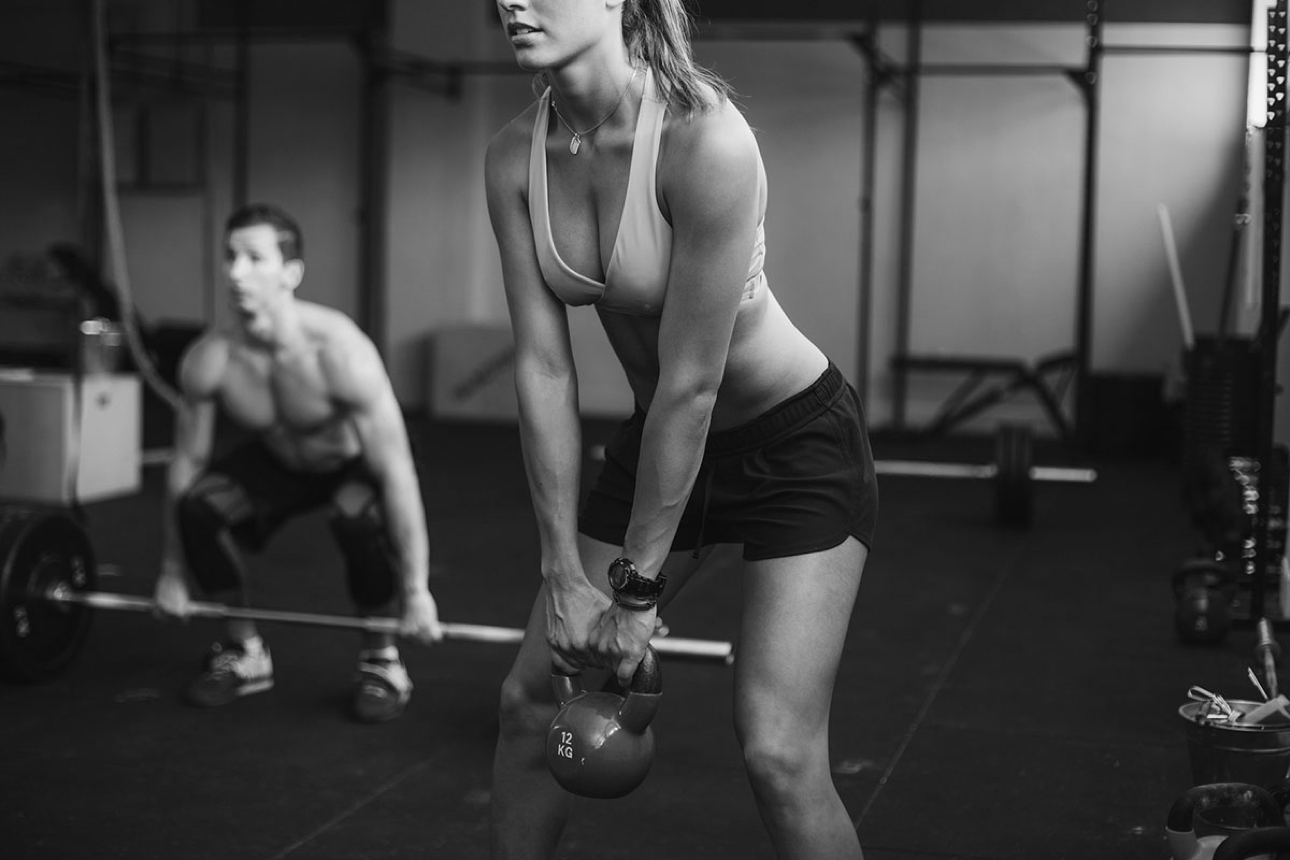
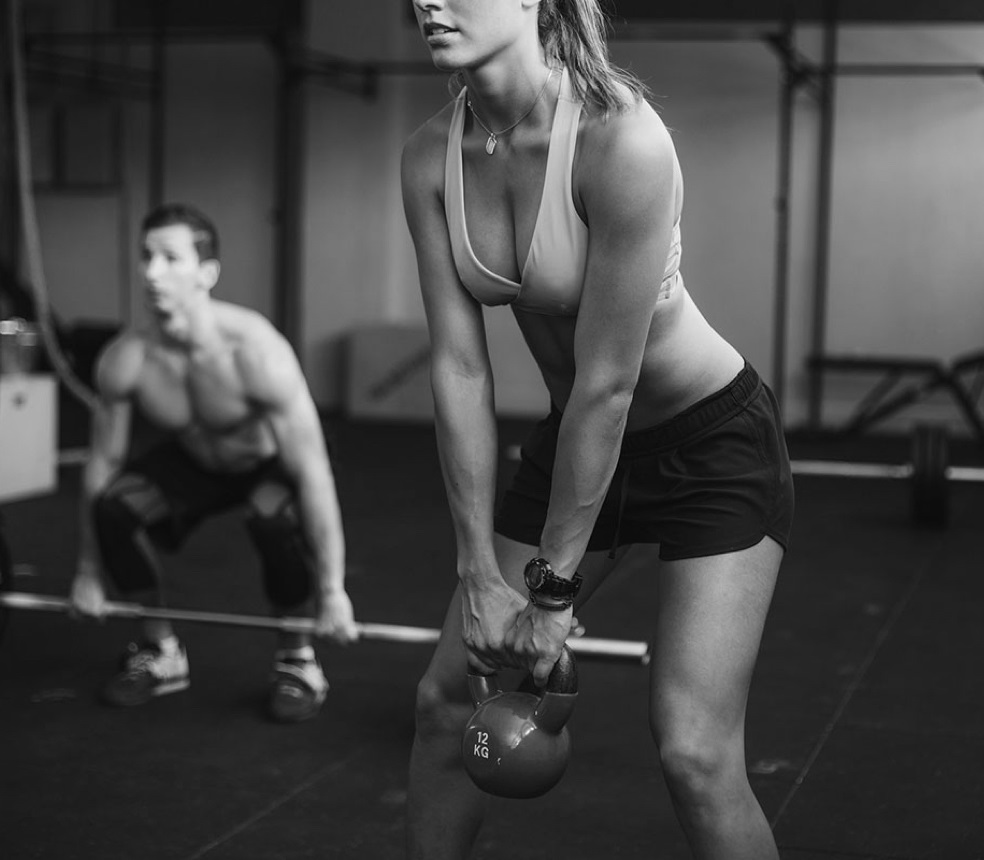
crossfit-img

diff --git a/style/style.css b/style/style.css
@@ -80,49 +80,76 @@ p {
   font-weight: 300;
 }
 .first-screen .promo-img img {
-  width: 130%;
+  width: 100%;
 }
 
 .crossfit {
   color: #ffffff;
   background-color: #000000;
 }
+.crossfit::after {
+  content: "";
+  display: block;
+  clear: both;
+}
 .crossfit .content {
   padding-bottom: 15px;
 }
 
 .crossfit-img {
-  text-align: right;
+  float: right;
   position: relative;
-  top: 4px;
+  width: 240px;
+  height: 160px;
+  overflow: hidden;
 }
 .crossfit-img::before {
   content: "";
-  display: inline-block;
   position: absolute;
   background: #000000;
-  width: 79px;
-  height: 110%;
+  width: 78px;
+  height: 179px;
   transform: rotate(25deg);
-  left: 53px;
-  bottom: 13px;
+  left: -35px;
+  bottom: 8px;
 }
 .crossfit-img img {
-  width: 72%;
-  height: 100%;
-  object-fit: cover;
+  width: 100%;
 }
 
 .equilibrium-fitness {
   color: #000000;
+}
+.equilibrium-fitness::after {
+  content: "";
+  display: block;
+  clear: both;
 }
 .equilibrium-fitness h1 {
   font: 36px/40px "Montserrat", sans-serif;
   font-weight: 700;
   margin-bottom: 30px;
 }
-.equilibrium-fitness .content.right {
+.equilibrium-fitness .content .crossfit-img::before {
+  background-color: white;
+}
+.equilibrium-fitness .content .crossfit-img.left {
+  float: none;
+}
+.equilibrium-fitness .content .crossfit-img.left::before {
+  width: 78px;
+  height: 179px;
+  transform: rotate(25deg);
+  left: -35px;
+  bottom: 8px;
+}
+.equilibrium-fitness .content .right {
   text-align: right;
+}
+.equilibrium-fitness .content .right::before {
+  content: "";
+  position: absolute;
+  background-color: white;
 }
 
 /*# sourceMappingURL=style.css.map */

diff --git a/style/style.scss b/style/style.scss
@@ -83,7 +83,7 @@ p {
   }
   .promo-img {
     img {
-      width: 130%;
+      width: 100%;
     }
   }
 }
@@ -91,43 +91,73 @@ p {
 .crossfit {
   color: #ffffff;
   background-color: #000000;
-
+  &::after {
+    content: "";
+    display: block;
+    clear: both;
+  }
   .content {
     padding-bottom: 15px;
   }
 }
 
 .crossfit-img {
-  text-align: right;
+  float: right;
   position: relative;
-  top: 4px;
+  width: 240px;
+  height: 160px;
+  overflow: hidden;
   &::before {
     content: "";
-    display: inline-block;
     position: absolute;
     background: #000000;
-    width: 79px;
-    height: 110%;
+    width: 78px;
+    height: 179px;
     transform: rotate(25deg);
-    left: 53px;
-    bottom: 13px;
+    left: -35px;
+    bottom: 8px;
   }
   img {
-    width:72%;
-    height:100%;
-    object-fit: cover;
+    width: 100%;
   }
 }
 
 
 .equilibrium-fitness {
   color: #000000;
+  &::after {
+    content: "";
+    display: block;
+    clear: both;
+  }
   h1 {
     font: 36px/40px 'Montserrat', sans-serif;
     font-weight: 700;
     margin-bottom: 30px;
   }
-  .content.right {
-    text-align: right;
+  .content{
+    .crossfit-img {
+      &::before {
+        background-color: white;
+      }
+    }
+    .crossfit-img.left {
+      float: none;
+      &::before {
+        width: 78px;
+        height: 179px;
+        transform: rotate(25deg);
+        left: -35px;
+        bottom: 8px;
+      }
+    }
+    .right {
+      text-align: right;
+      &::before {
+        content: "";
+        position: absolute;
+        background-color: white;
+      }
+    }
   }
 }

diff --git a/index.html b/index.html
@@ -49,7 +49,7 @@
             <h1>Equilibrium Fitness это</h1>
             <h2>Уникальные методики</h2>
             <p>Тренировки не повторяются. Каждый раз вас ждёт что-то новое.</p>
-            <div class="crossfit-img">
+            <div class="crossfit-img left">
                 <img src="./images/Info-Block-1.jpg" alt="crossfit">
             </div>
         </div>
@@ -63,7 +63,7 @@
         <div class="content">
             <h2>Групповые и персональные тренировки</h2>
             <p>У тебя всегда есть возможность работать один на один с тренером в любое удобное время.</p>
-            <div class="crossfit-img">
+            <div class="crossfit-img left">
                 <img src="./images/Info-Block-3.jpg" alt="crossfit">
             </div>
         </div>
